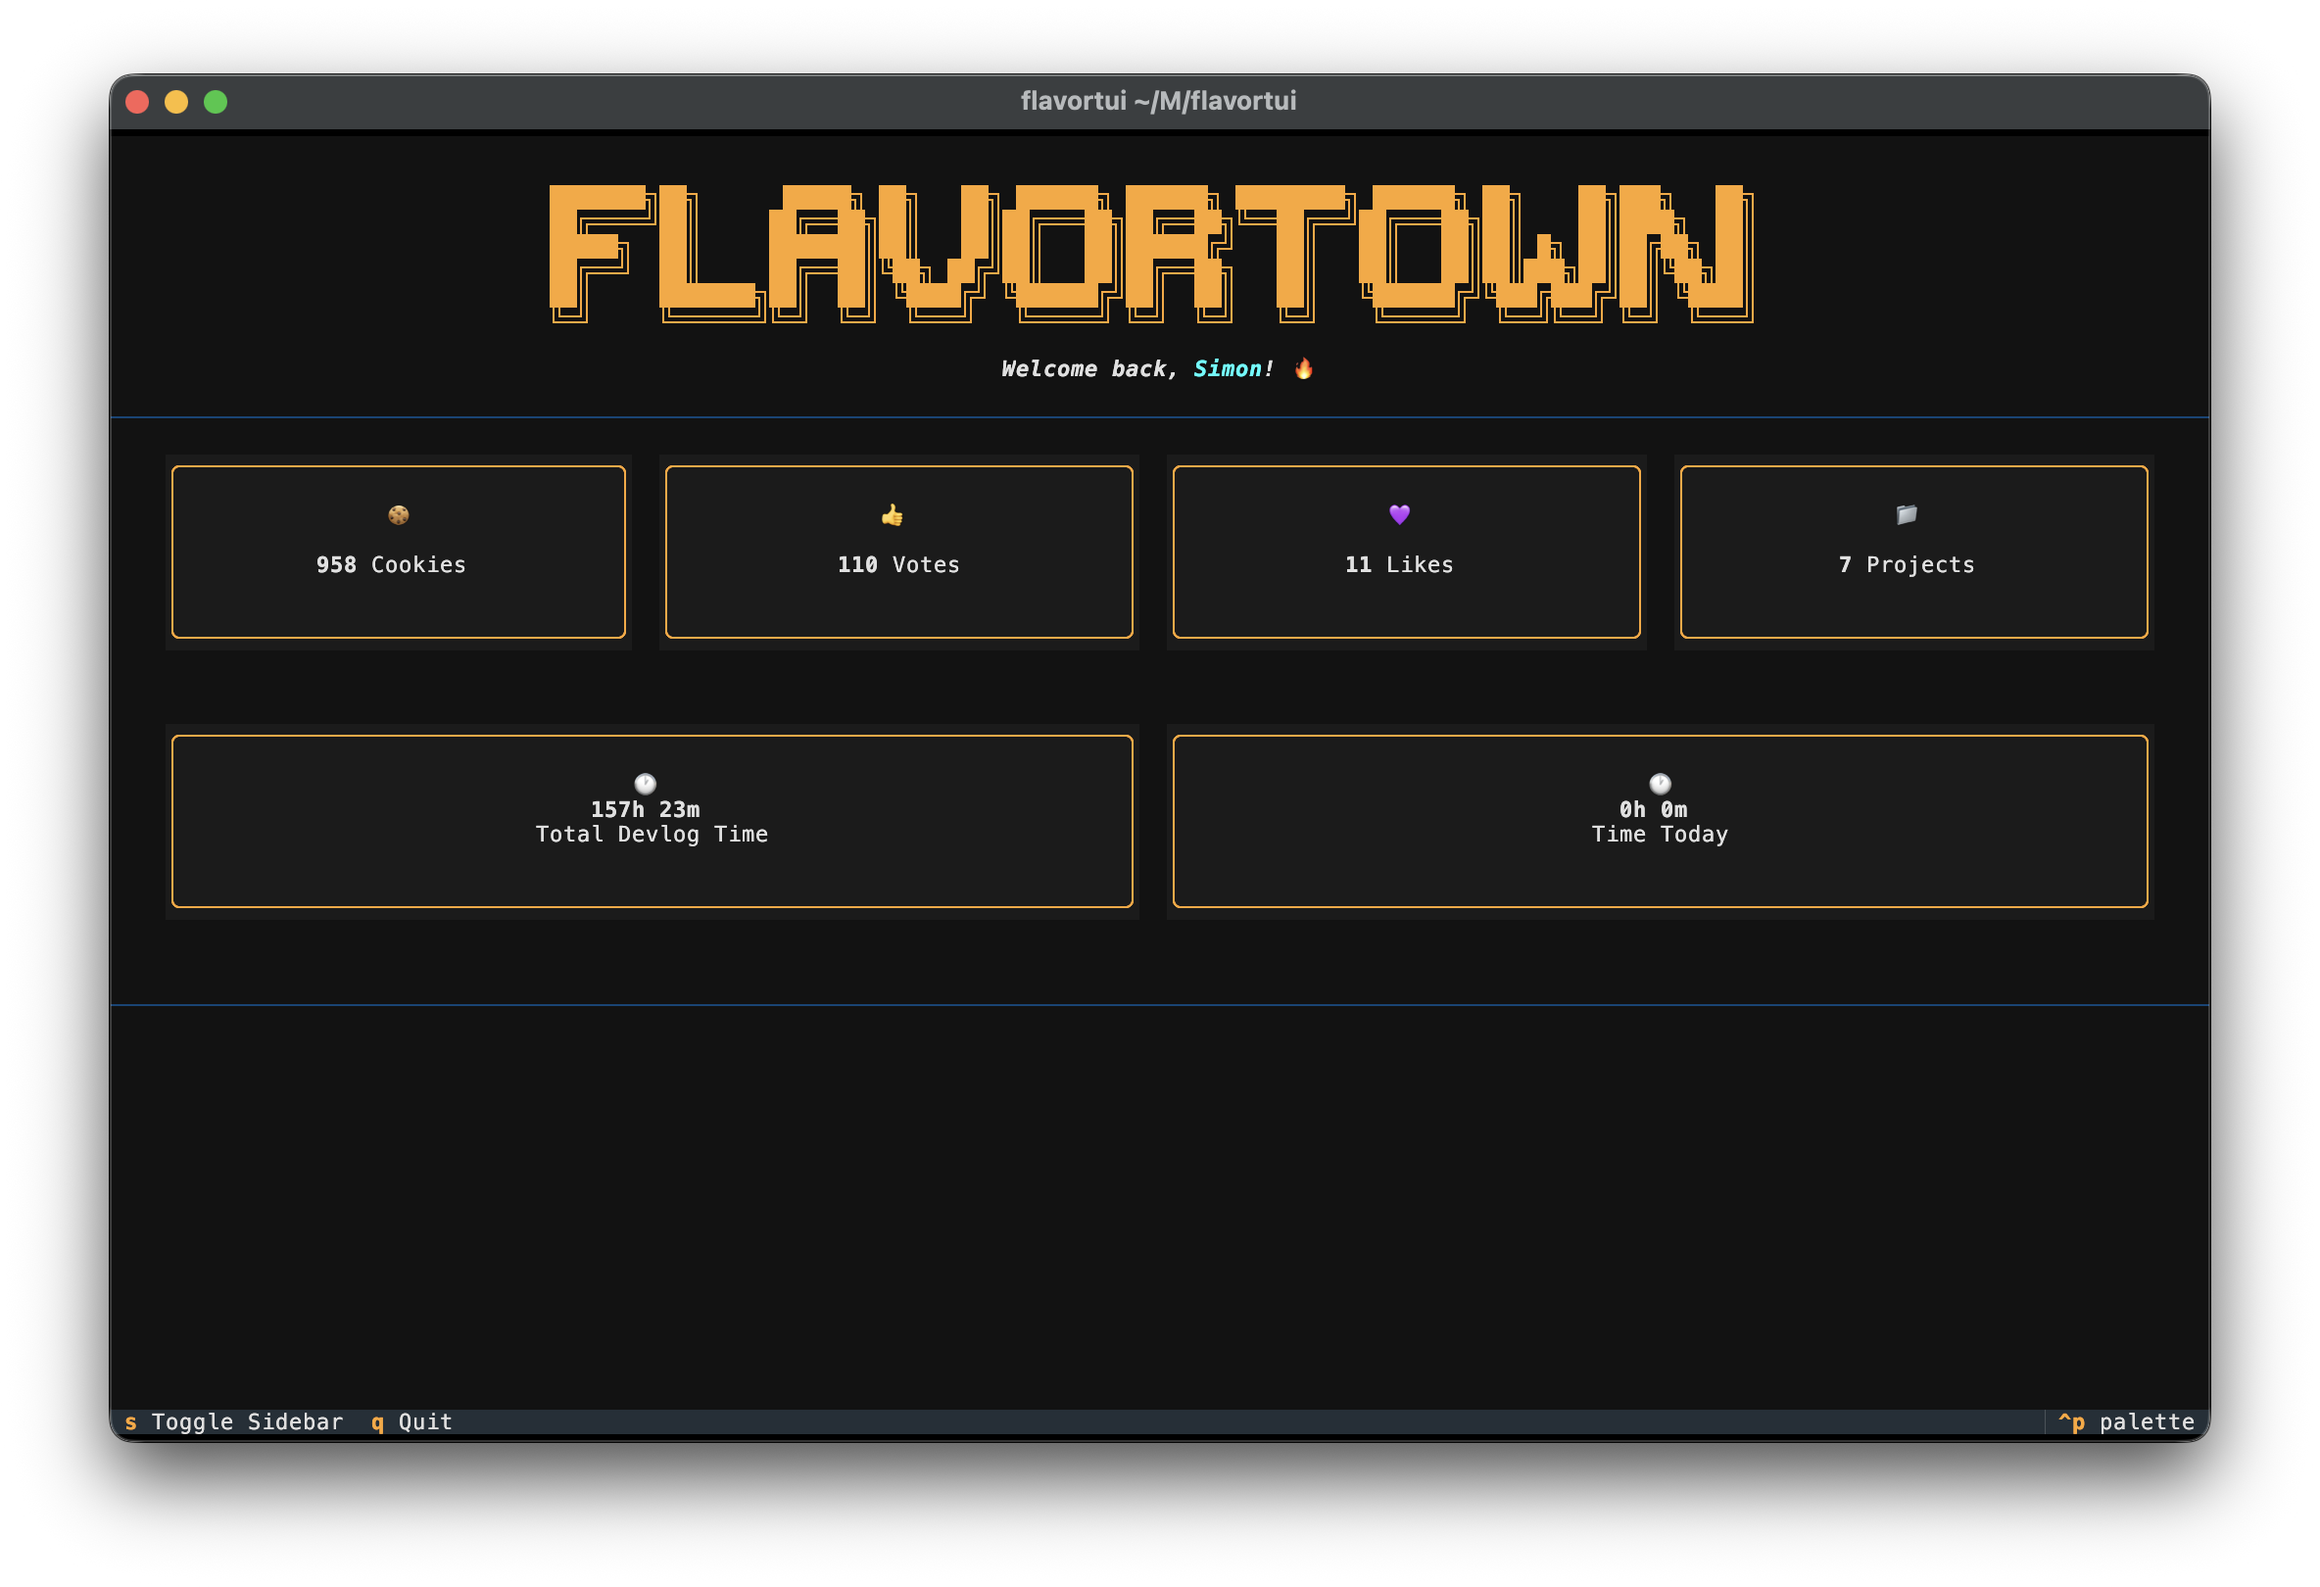
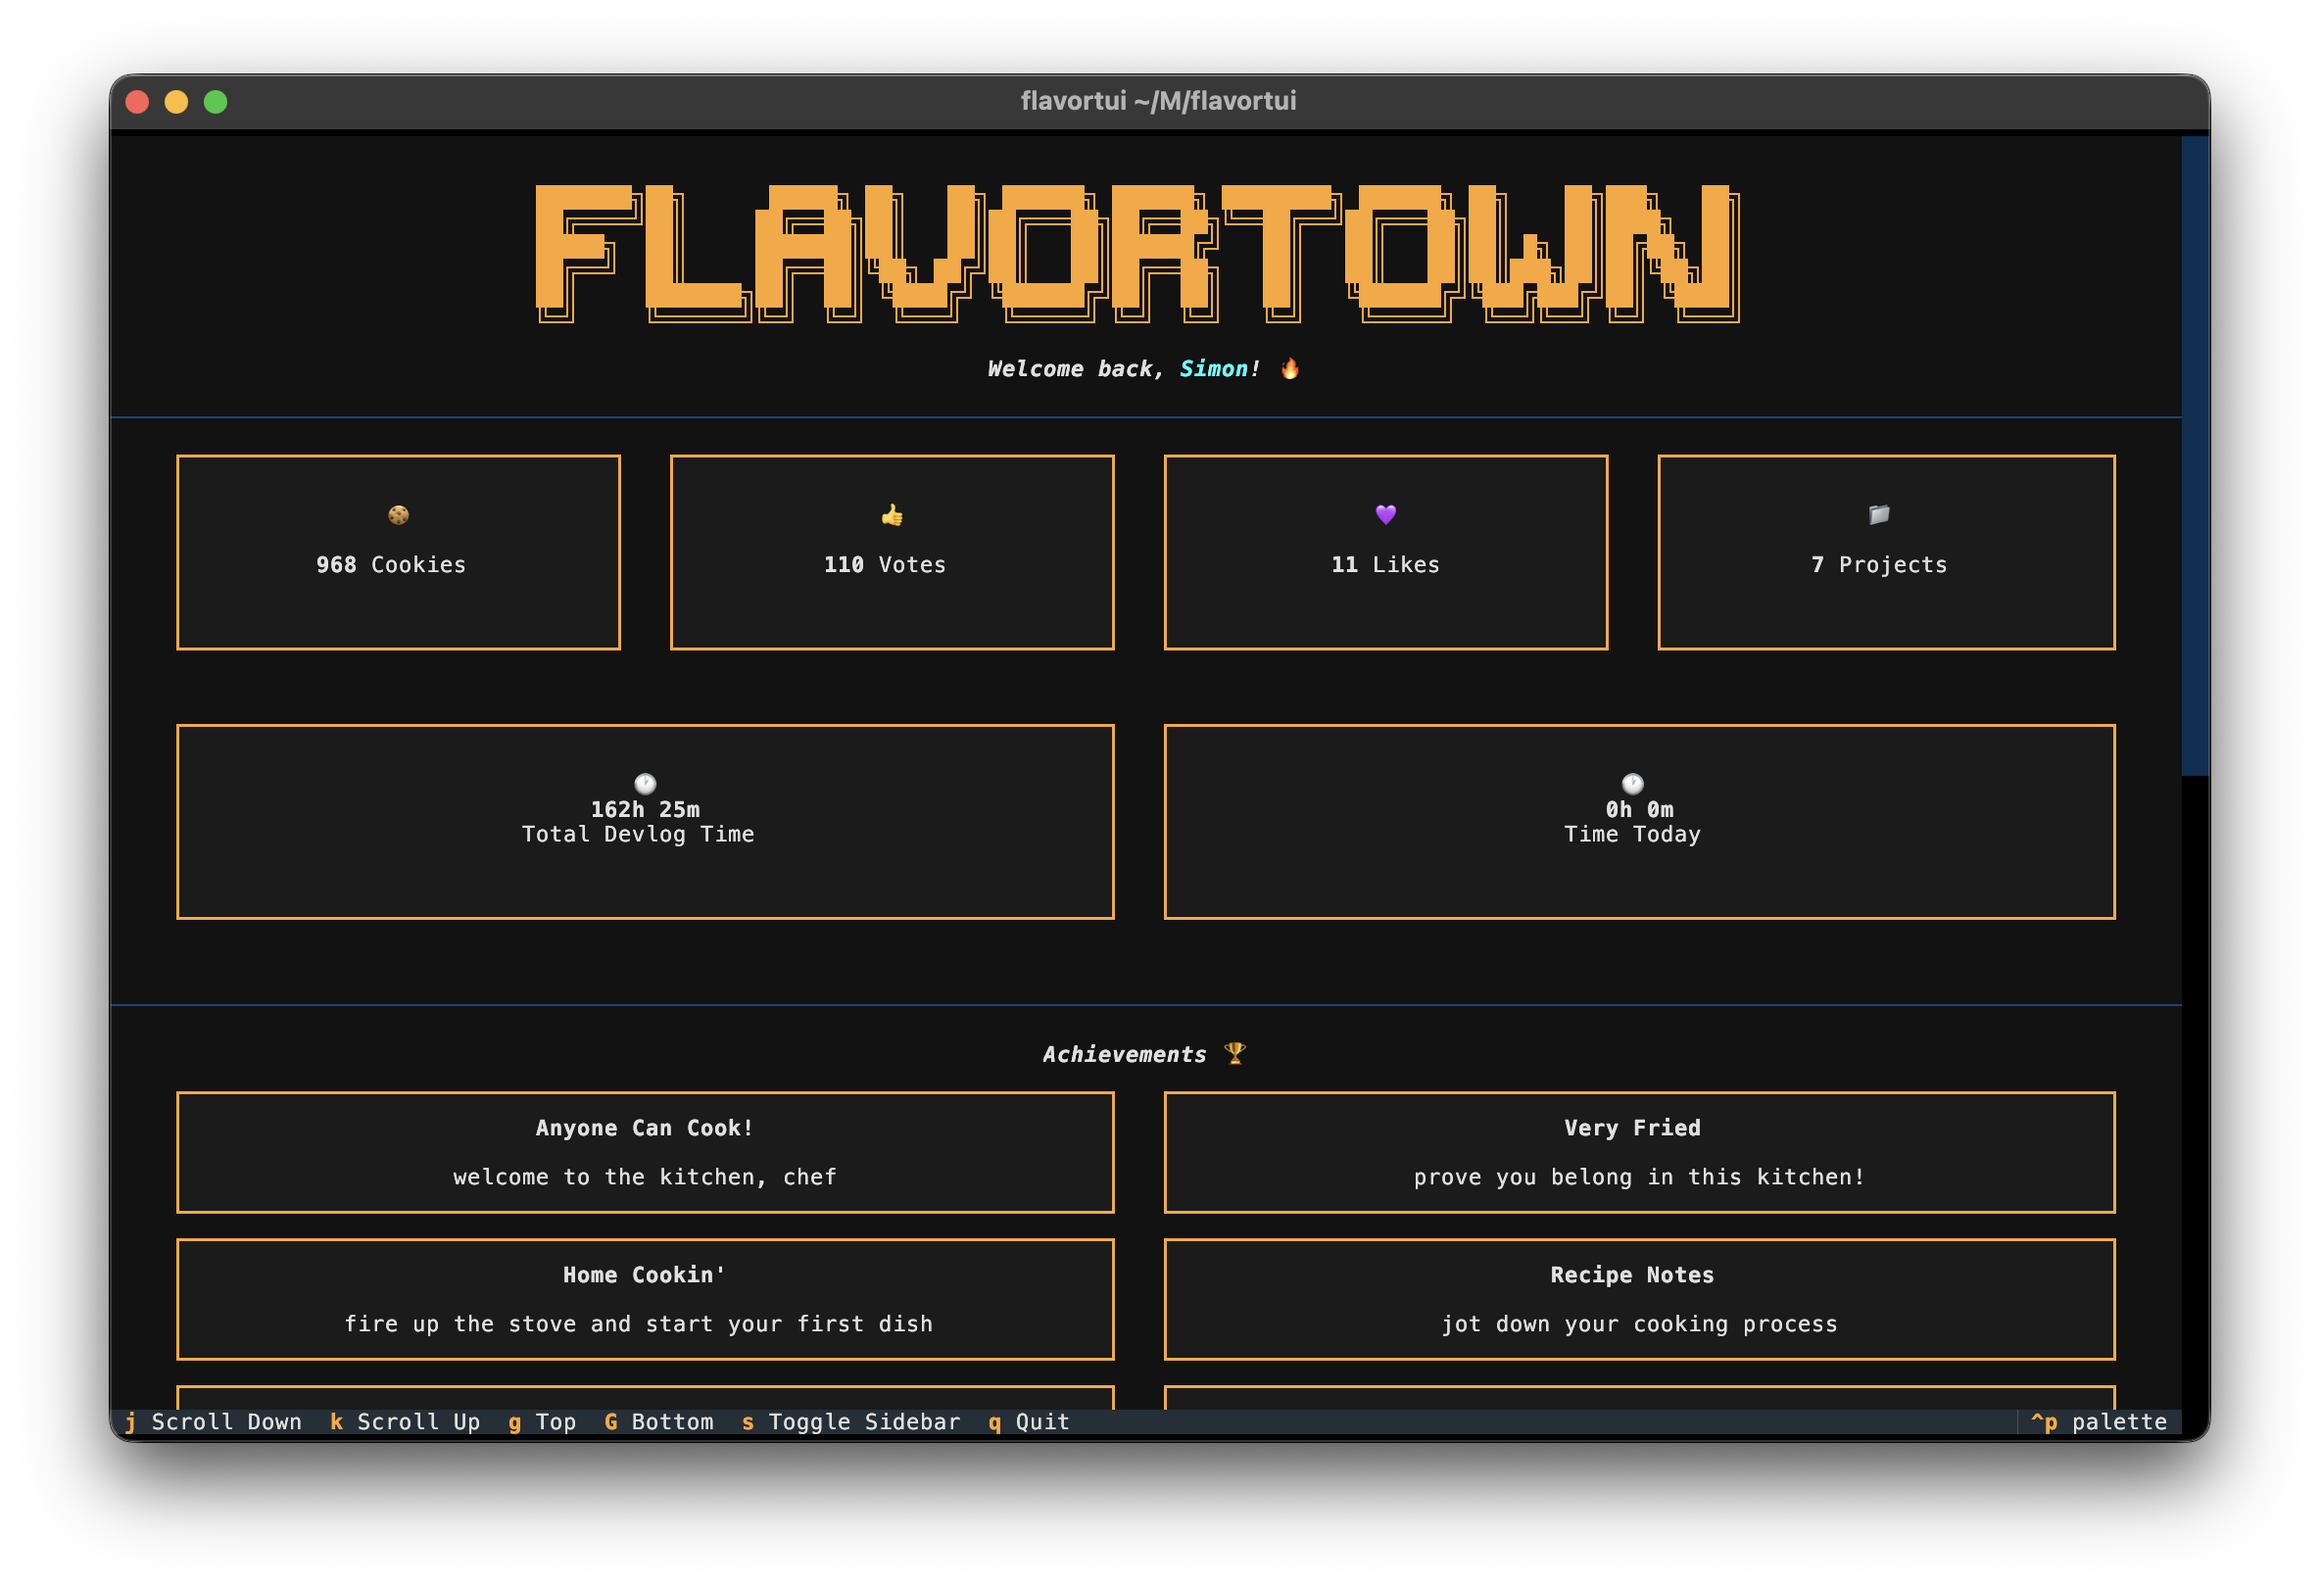
chore: more photos!

diff --git a/README.md b/README.md
@@ -78,8 +78,16 @@ To easily find where your data is stored, you can simply go to the bottom of the
       <td><img src="https://raw.githubusercontent.com/BookCatKid/flavortui/main/screenshots/projects.png" width="100%"></td>
     </tr>
     <tr>
+      <td><img src="https://raw.githubusercontent.com/BookCatKid/flavortui/main/screenshots/shop.png" width="100%"></td>
+      <td><img src="https://raw.githubusercontent.com/BookCatKid/flavortui/main/screenshots/shop-item.png" width="100%"></td>
+    </tr>
+    <tr>
       <td><img src="https://raw.githubusercontent.com/BookCatKid/flavortui/main/screenshots/kitchen.png" width="100%"></td>
       <td><img src="https://raw.githubusercontent.com/BookCatKid/flavortui/main/screenshots/explore.png" width="100%"></td>
+    </tr>
+    <tr>
+      <td><img src="https://raw.githubusercontent.com/BookCatKid/flavortui/main/screenshots/explore-devlogs.png" width="100%"></td>
+      <td><img src="https://raw.githubusercontent.com/BookCatKid/flavortui/main/screenshots/explore-users.png" width="100%"></td>
     </tr>
     <tr>
       <td><img src="https://raw.githubusercontent.com/BookCatKid/flavortui/main/screenshots/settings.png" width="100%"></td>
